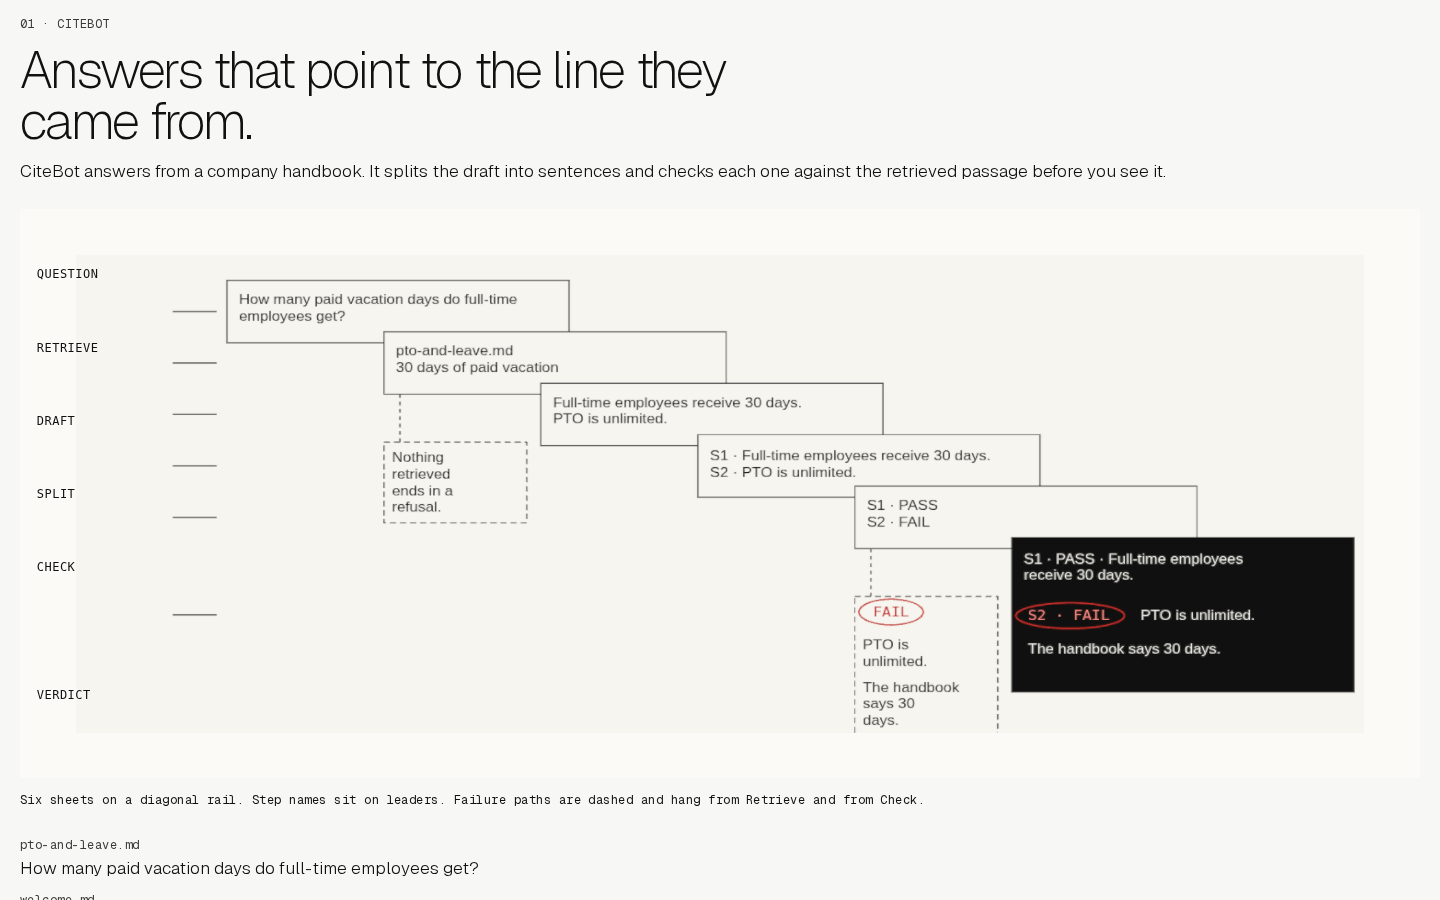
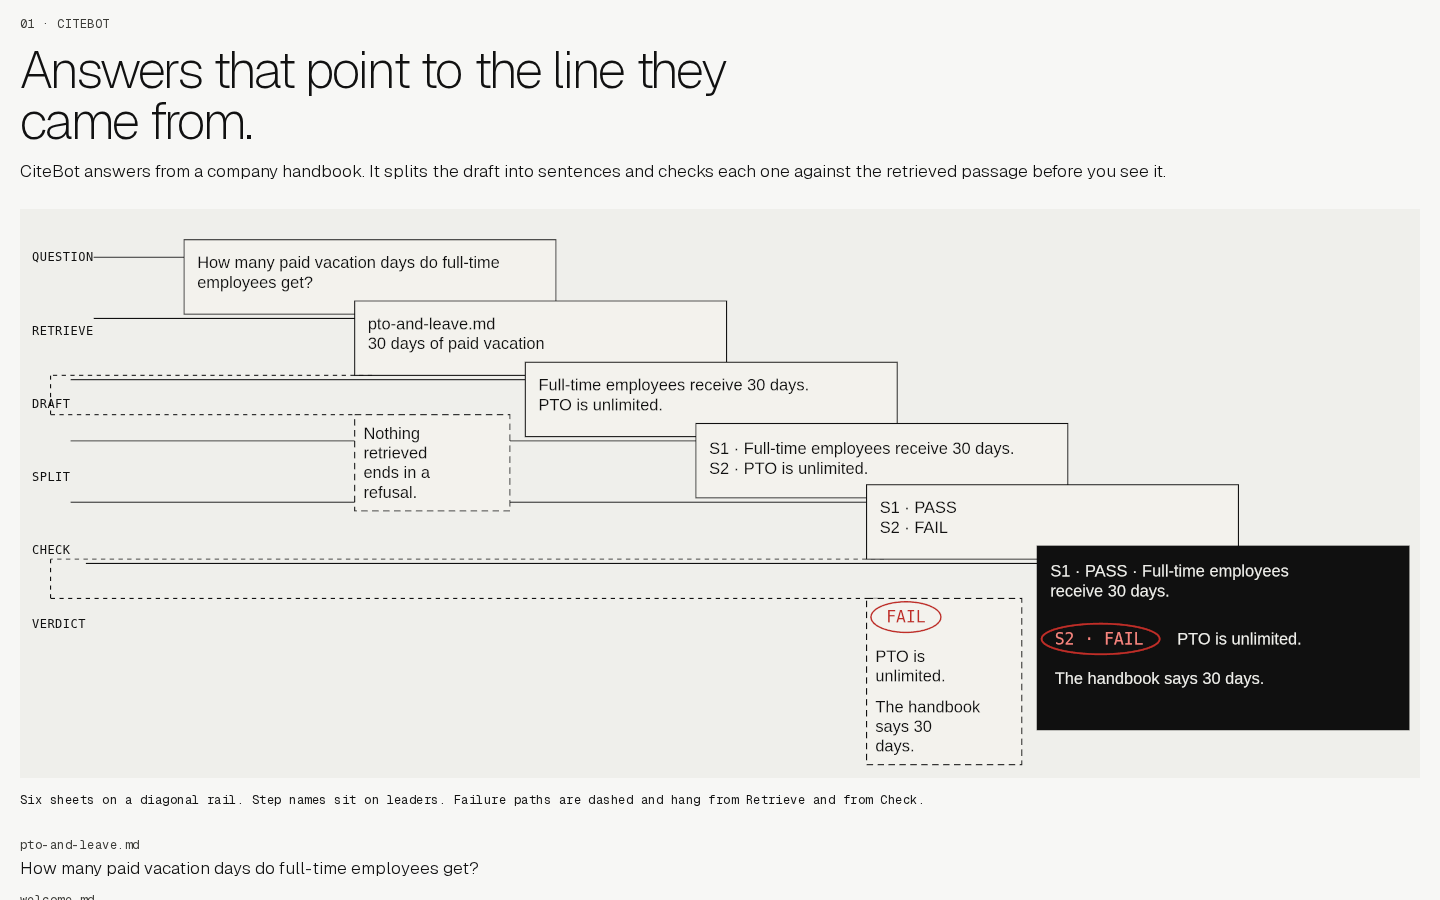
Align each CiteBot leader with its sheet and sharpen the plate planes.
Leaders run from the label to the sheet edge. The drawing sits on one paper surface, and the texture is rasterised at at least 2x.

diff --git a/components/schnitt-scene.ts b/components/schnitt-scene.ts
@@ -1,3 +1,4 @@
+import { LinearFilter, LinearMipmapLinearFilter } from "three/src/constants.js";
 import { CanvasTexture } from "three/src/textures/CanvasTexture.js";
 import { Group } from "three/src/objects/Group.js";
 import { Mesh } from "three/src/objects/Mesh.js";
@@ -7,6 +8,7 @@ import { PlaneGeometry } from "three/src/geometries/PlaneGeometry.js";
 import { Scene } from "three/src/scenes/Scene.js";
 import { WebGLRenderer } from "three/src/renderers/WebGLRenderer.js";
 import { placeThread } from "@/components/schnitt-fallback";
+import { alignCiteLeaders } from "@/lib/align-leaders";
 import { STYLE_DISTANCE } from "@/lib/diagrams";
 
 const PLATES = ["citebot", "autopsy", "style", "skills"] as const;
@@ -124,17 +126,26 @@ function onScreen() {
   return best;
 }
 
+const PAPER = 0xf7f7f5;
+
 async function raster(node: Element) {
+  if (node instanceof SVGSVGElement) alignCiteLeaders();
   const rect = node.getBoundingClientRect();
-  const ratio = Math.min(window.devicePixelRatio || 1, 2);
-  const width = Math.max(2, Math.round(Math.max(rect.width, 2) * ratio));
-  const height = Math.max(2, Math.round(Math.max(rect.height, 2) * ratio));
+  const ratio = Math.max(window.devicePixelRatio || 1, 2);
+  let width = Math.max(2, Math.round(Math.max(rect.width, 2) * ratio));
+  let height = Math.max(2, Math.round(Math.max(rect.height, 2) * ratio));
+  const longest = Math.max(width, height);
+  if (longest > 4096) {
+    const scale = 4096 / longest;
+    width = Math.max(2, Math.round(width * scale));
+    height = Math.max(2, Math.round(height * scale));
+  }
   const paint = document.createElement("canvas");
   paint.width = width;
   paint.height = height;
   const ctx = paint.getContext("2d");
   if (!ctx) throw new Error("texture surface is missing");
-  ctx.fillStyle = "#FBFAF7";
+  ctx.fillStyle = "#F7F7F5";
   ctx.fillRect(0, 0, width, height);
   const clone = node.cloneNode(true) as Element;
   if (clone instanceof SVGSVGElement) {
@@ -214,7 +225,7 @@ export async function mountSchnittScene(stage: HTMLElement, canvas: HTMLCanvasEl
   const figures = PLATES.map((id, index) => {
     const mesh = new Mesh(
       new PlaneGeometry(1, 1),
-      new MeshBasicMaterial({ color: 0xfbfaf7, toneMapped: false, side: 2 }),
+      new MeshBasicMaterial({ color: PAPER, toneMapped: false, side: 2 }),
     );
     mesh.position.z = DEPTHS[index] ?? 0;
     mesh.visible = false;
@@ -248,6 +259,10 @@ export async function mountSchnittScene(stage: HTMLElement, canvas: HTMLCanvasEl
     const paint = await raster(node);
     const map = new CanvasTexture(paint);
     map.colorSpace = "srgb";
+    map.generateMipmaps = true;
+    map.minFilter = LinearFilter;
+    map.magFilter = LinearFilter;
+    map.anisotropy = renderer.capabilities.getMaxAnisotropy();
     map.needsUpdate = true;
     const material = figure.mesh.material;
     if (material instanceof MeshBasicMaterial) {
@@ -292,7 +307,11 @@ export async function mountSchnittScene(stage: HTMLElement, canvas: HTMLCanvasEl
     const extra = progress * 52;
     const natural = laid.reduce((sum, item) => sum + item, 0) + 14 * (cards.length - 1) + 28;
     const fit = Math.min(1, (height - 24) / Math.max(natural, 1));
-    let cursor = 8;
+    const crop = stage.querySelector(".crops span");
+    const stageBox = stage.getBoundingClientRect();
+    const cropBottom = crop ? crop.getBoundingClientRect().bottom - stageBox.top : 21;
+    const cropRight = crop ? crop.getBoundingClientRect().right - stageBox.left : 21;
+    let cursor = cropBottom + 18;
     figures.forEach((figure) => {
       figure.mesh.visible = false;
     });
@@ -314,9 +333,9 @@ export async function mountSchnittScene(stage: HTMLElement, canvas: HTMLCanvasEl
       }
       if (card.callout) {
         card.callout.style.position = "absolute";
-        card.callout.style.width = `${lane - 18}px`;
-        card.callout.style.left = "0px";
-        card.callout.style.top = `${top + 4}px`;
+        card.callout.style.left = `${cropRight + 10}px`;
+        card.callout.style.width = `${Math.max(88, lane - cropRight - 16)}px`;
+        card.callout.style.top = `${top + 6}px`;
       }
       cursor += boxH + 14 * fit;
     });
@@ -364,7 +383,7 @@ export async function mountSchnittScene(stage: HTMLElement, canvas: HTMLCanvasEl
       const width = Math.max(canvas.clientWidth, 1);
       const height = Math.max(canvas.clientHeight, 1);
       const key = `${width}x${height}`;
-      renderer.setClearColor(0xfbfaf7, 1);
+      renderer.setClearColor(PAPER, 1);
       renderer.setPixelRatio(ratio);
       if (key !== sized) {
         renderer.setSize(width, height, false);
@@ -391,8 +410,14 @@ export async function mountSchnittScene(stage: HTMLElement, canvas: HTMLCanvasEl
         figure.mesh.visible = figureIndex === index;
         figure.mesh.position.z = plane;
         const visibleH = 2 * Math.tan(half) * distance;
-        figure.mesh.scale.set(visibleH * camera.aspect * 0.92, visibleH * 0.84, 1);
+        figure.mesh.scale.set(visibleH * camera.aspect, visibleH, 1);
         figure.mesh.rotation.y = figureIndex === index ? Math.min(1.05, leaving * 1.35) : 0;
+        const material = figure.mesh.material;
+        if (material instanceof MeshBasicMaterial && material.map) {
+          const flat = Math.abs(figure.mesh.rotation.y) < 0.08;
+          material.map.minFilter = flat ? LinearFilter : LinearMipmapLinearFilter;
+          material.map.magFilter = LinearFilter;
+        }
       });
       renderer.render(scene, camera);
     } else {

diff --git a/components/Plates.tsx b/components/Plates.tsx
@@ -1,3 +1,4 @@
+import { AlignLeaders } from "@/components/AlignLeaders";
 import { CopyAddress } from "@/components/CopyAddress";
 import { BACKGROUND } from "@/lib/looks";
 import { contact } from "@/lib/contact";
@@ -77,6 +78,7 @@ export function Plates({ run }: { run: SchnittRun }) {
   const sheetBox = (index: number) => ({ x: x0 + index * dx, y: y0 + index * dy, w: sw, h: index === 5 ? 168 : sh });
   return (
     <div className="plates">
+      <AlignLeaders />
       <section className="plate" id="citebot" aria-labelledby="citebot-title">
         <p className="kicker">01 · CITEBOT</p>
         <h2 id="citebot-title">{CITEBOT_PLATE.headline}</h2>
@@ -89,10 +91,10 @@ export function Plates({ run }: { run: SchnittRun }) {
               const box = sheetBox(index);
               const verdict = step.name === "Verdict";
               const ink = verdict ? "#F7F7F5" : "#111111";
-              const midY = box.y + box.h / 2;
+              const rowY = box.y + 16;
               return (
                 <g key={step.name} className="draw-sheet" data-step={step.name.toLowerCase()}>
-                  <line className="leader-line" x1={96} y1={midY} x2={140} y2={midY} stroke="#111111" strokeWidth="1" />
+                  <line className="leader-line" data-for={step.name.toLowerCase()} x1={108} y1={rowY} x2={box.x} y2={rowY} stroke="#111111" strokeWidth="1" />
                   <rect className={`sheet-face${verdict ? " verdict-sheet" : ""}`} x={box.x} y={box.y} width={box.w} height={box.h} fill={verdict ? "#111111" : "#FBFAF7"} stroke="#111111" />
                   {step.name === "Split"
                     ? run.sentences.map((sentence, sentenceIndex) => (
@@ -151,10 +153,12 @@ export function Plates({ run }: { run: SchnittRun }) {
               const reasonLines = wrapLines(fail?.evidence ?? "", 12);
               const reasonTop = 58 + failLines.length * 18 + 10;
               const hangHeight = id === "retrieve" ? 22 + (refusalLines.length - 1) * 18 + 12 : reasonTop + (reasonLines.length - 1) * 18 + 12;
-              const hang = { x: box.x, y: box.y + box.h + 52, w: dx - 14, h: hangHeight };
+              const hang = { x: box.x, y: box.y + box.h + 36, w: dx - 14, h: hangHeight };
               return (
                 <g key={id} data-hang={id}>
-                  <line className="hang-leader" data-leader={id} x1={box.x + 16} y1={box.y + box.h} x2={box.x + 16} y2={hang.y} stroke="#111111" strokeWidth="1" strokeDasharray="4 4" />
+                  <line className="hang-leader" data-leader={id} x1={box.x + 16} y1={box.y + box.h} x2={28} y2={box.y + box.h} stroke="#111111" strokeWidth="1" strokeDasharray="4 4" />
+                  <line className="hang-leader" data-leader={id} x1={28} y1={box.y + box.h} x2={28} y2={hang.y} stroke="#111111" strokeWidth="1" strokeDasharray="4 4" />
+                  <line className="hang-leader" data-leader={id} x1={28} y1={hang.y} x2={hang.x + 16} y2={hang.y} stroke="#111111" strokeWidth="1" strokeDasharray="4 4" />
                   <rect className="sheet-face hang-sheet" x={hang.x} y={hang.y} width={hang.w} height={hang.h} fill="#FBFAF7" stroke="#111111" strokeDasharray="6 4" />
                   {id === "retrieve" ? (
                     refusalLines.map((line, lineIndex) => (
@@ -183,9 +187,9 @@ export function Plates({ run }: { run: SchnittRun }) {
           <div className="sheet-labels">
             {steps.map((step, index) => {
               const box = sheetBox(index);
-              const midY = box.y + box.h / 2;
+              const rowY = box.y + 16;
               return (
-                <p key={step.name} className="leader-name" style={{ left: "1.2%", top: `${((midY - 8) / 520) * 100}%` }}>
+                <p key={step.name} className="leader-name" data-for={step.name.toLowerCase()} style={{ left: "12px", top: `${(rowY / 520) * 100}%`, transform: "translateY(-50%)" }}>
                   {step.name.toUpperCase()}
                 </p>
               );

diff --git a/test/plate-leaders.spec.ts b/test/plate-leaders.spec.ts
@@ -1,0 +1,52 @@
+import { expect, test } from "@playwright/test";
+
+for (const width of [1024, 1280, 1440]) {
+  test(`each CiteBot leader meets its label and its sheet at ${width}px`, async ({ page }) => {
+    await page.setViewportSize({ width, height: 900 });
+    await page.goto("/");
+    await page.evaluate(() => document.fonts.ready);
+    await page.waitForFunction(() => document.querySelector("#citebot .drawing-frame")?.getAttribute("data-leaders") === "ready" || getComputedStyle(document.querySelector("#citebot svg.plate-drawing")!).display === "none");
+    const report = await page.evaluate(() => {
+      const svg = document.querySelector<SVGSVGElement>("#citebot svg.plate-drawing");
+      const frame = document.querySelector("#citebot .drawing-frame");
+      if (!(svg instanceof SVGSVGElement) || !frame || getComputedStyle(svg).display === "none" || svg.getBoundingClientRect().width < 2) {
+        return { shown: false, misses: [] as string[], count: 0 };
+      }
+      const ctm = svg.getScreenCTM();
+      if (!ctm) return { shown: true, misses: ["no matrix"], count: 0 };
+      const point = svg.createSVGPoint();
+      const toScreen = (x: number, y: number) => {
+        point.x = x;
+        point.y = y;
+        const mapped = point.matrixTransform(ctm);
+        return { x: mapped.x, y: mapped.y };
+      };
+      const misses: string[] = [];
+      const lines = [...svg.querySelectorAll<SVGLineElement>("line.leader-line[data-for]")];
+      for (const line of lines) {
+        const id = line.dataset.for ?? "";
+        const label = frame.querySelector<HTMLElement>(`.leader-name[data-for="${id}"]`);
+        const face = svg.querySelector<SVGGraphicsElement>(`.draw-sheet[data-step="${id}"] > rect.sheet-face`);
+        if (!label || !(face instanceof SVGGraphicsElement)) {
+          misses.push(`${id} missing`);
+          continue;
+        }
+        const start = toScreen(line.x1.baseVal.value, line.y1.baseVal.value);
+        const end = toScreen(line.x2.baseVal.value, line.y2.baseVal.value);
+        const labelBox = label.getBoundingClientRect();
+        const faceBox = face.getBoundingClientRect();
+        const labelY = (labelBox.top + labelBox.bottom) / 2;
+        if (Math.abs(end.x - faceBox.left) > 2) misses.push(`${id} end ${Math.abs(end.x - faceBox.left).toFixed(1)}px from the sheet`);
+        if (Math.abs(start.y - labelY) > 2) misses.push(`${id} start off its label row`);
+        if (Math.abs(start.x - labelBox.right) > 2) misses.push(`${id} start off its label`);
+      }
+      return { shown: true, misses, count: lines.length };
+    });
+    if (!report.shown) {
+      expect(width).toBeLessThan(1100);
+      return;
+    }
+    expect(report.count).toBe(6);
+    expect(report.misses).toEqual([]);
+  });
+}

diff --git a/lib/align-leaders.ts b/lib/align-leaders.ts
@@ -1,0 +1,34 @@
+/** Put each CiteBot leader on its label's row and on the left edge of its sheet. */
+export function alignCiteLeaders() {
+  const frame = document.querySelector("#citebot .drawing-frame");
+  const svg = frame?.querySelector("svg.plate-drawing");
+  if (!(frame instanceof HTMLElement) || !(svg instanceof SVGSVGElement)) return;
+  if (svg.getBoundingClientRect().width < 2) return;
+  const ctm = svg.getScreenCTM();
+  if (!ctm) return;
+  const inverse = ctm.inverse();
+  const point = svg.createSVGPoint();
+  const toUser = (x: number, y: number) => {
+    point.x = x;
+    point.y = y;
+    const mapped = point.matrixTransform(inverse);
+    return { x: mapped.x, y: mapped.y };
+  };
+  for (const line of svg.querySelectorAll<SVGLineElement>("line.leader-line[data-for]")) {
+    const id = line.dataset.for ?? "";
+    const label = frame.querySelector<HTMLElement>(`.leader-name[data-for="${id}"]`);
+    const face = svg.querySelector<SVGGraphicsElement>(`.draw-sheet[data-step="${id}"] > rect.sheet-face`);
+    if (!label || !(face instanceof SVGGraphicsElement)) continue;
+    const labelBox = label.getBoundingClientRect();
+    const faceBox = face.getBoundingClientRect();
+    if (labelBox.width < 2 || faceBox.width < 2) continue;
+    const y = (labelBox.top + labelBox.bottom) / 2;
+    const start = toUser(labelBox.right, y);
+    const end = toUser(faceBox.left, y);
+    line.setAttribute("x1", start.x.toFixed(2));
+    line.setAttribute("y1", start.y.toFixed(2));
+    line.setAttribute("x2", end.x.toFixed(2));
+    line.setAttribute("y2", end.y.toFixed(2));
+  }
+  frame.dataset.leaders = "ready";
+}

diff --git a/components/AlignLeaders.tsx b/components/AlignLeaders.tsx
@@ -1,0 +1,15 @@
+"use client";
+
+import { alignCiteLeaders } from "@/lib/align-leaders";
+import { useEffect } from "react";
+
+export function AlignLeaders() {
+  useEffect(() => {
+    const align = () => alignCiteLeaders();
+    align();
+    document.fonts.ready.then(align);
+    window.addEventListener("resize", align);
+    return () => window.removeEventListener("resize", align);
+  }, []);
+  return null;
+}
